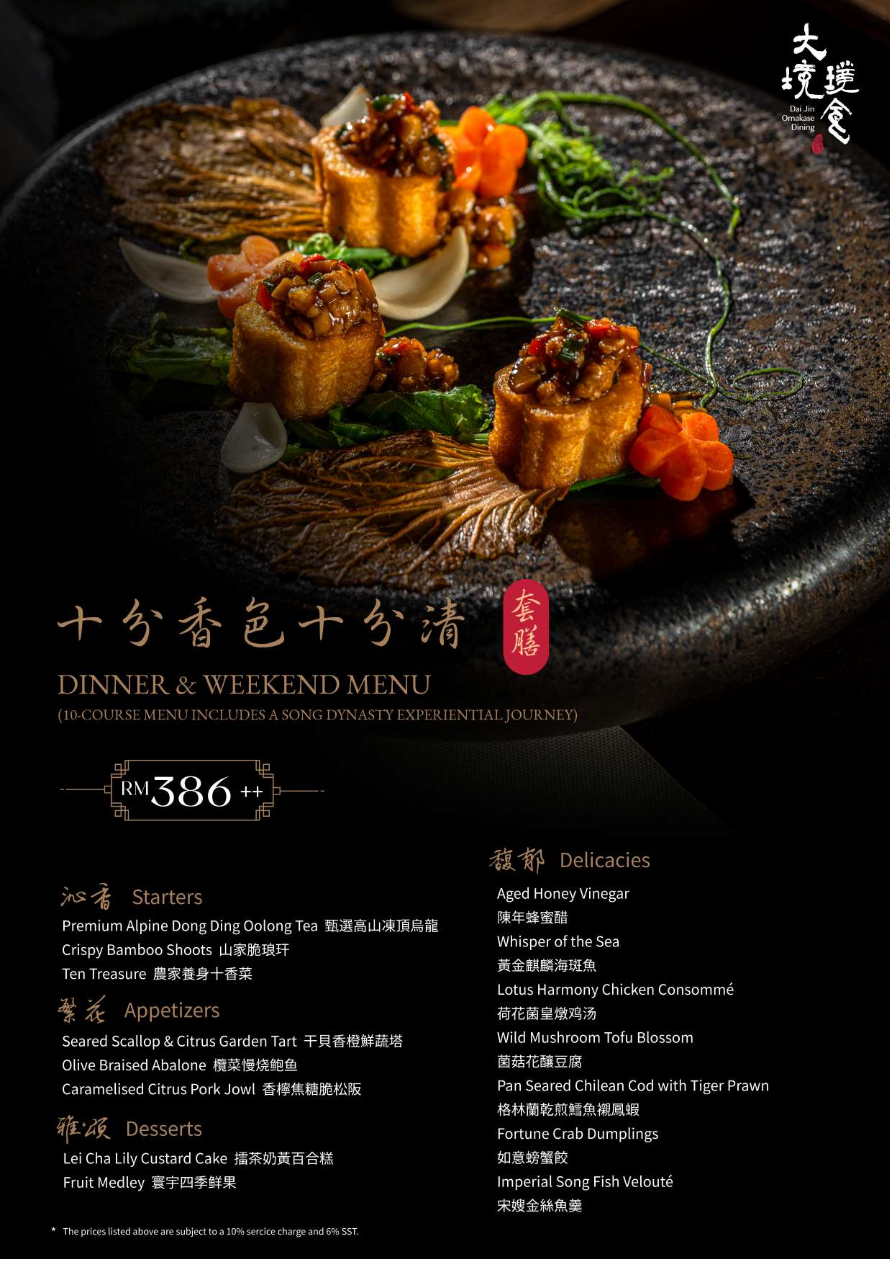
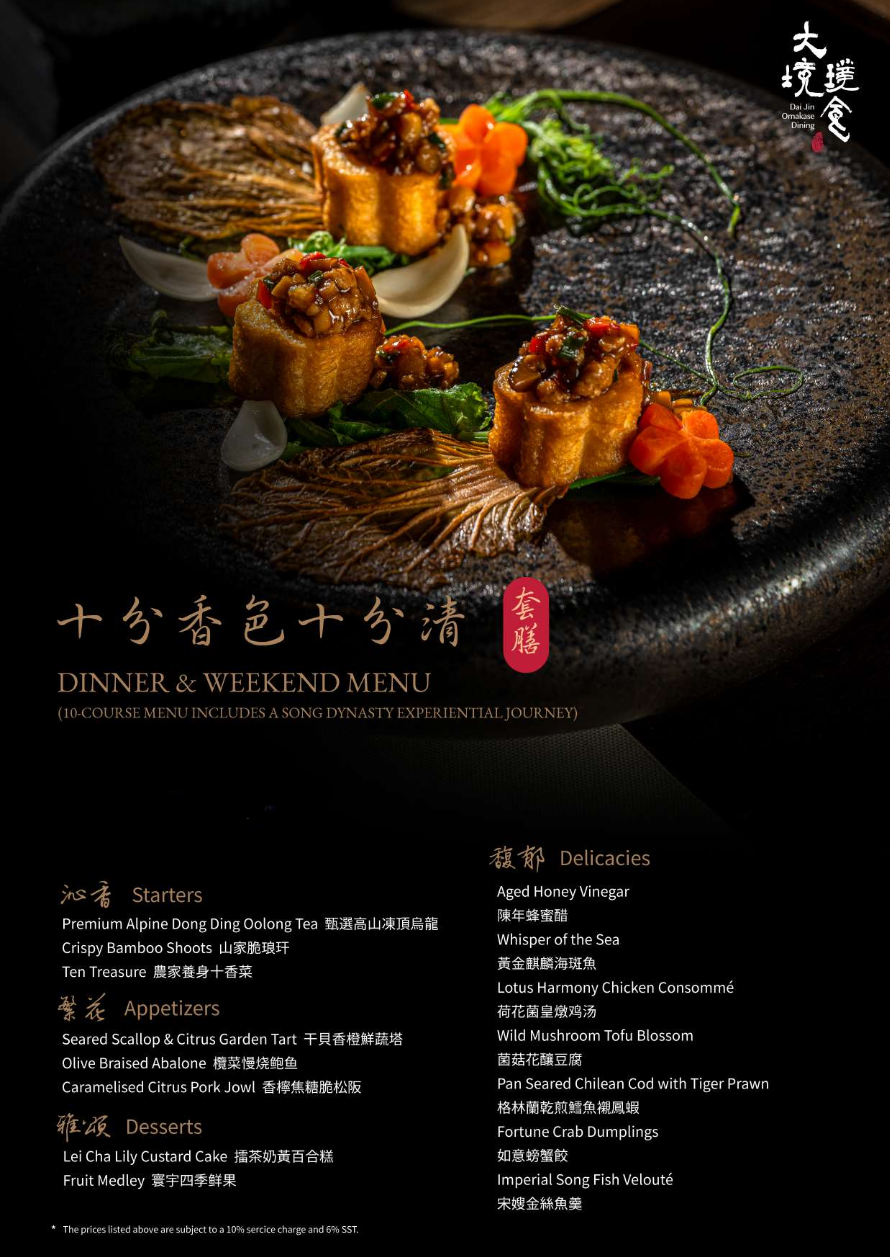
Add files via upload

diff --git a/index.html b/index.html
@@ -200,7 +200,7 @@
     <!-- REST OF CONTENT: reveals on scroll -->
 
     <div class="section reveal">
-        <h2>To celebrate your birthdays, your beloved eldest daughter, Yu Ting, invites you to an immersive omakase dining experience at:</h2>
+        <h2>To celebrate your birthdays, your beloved four children, invite you to an immersive omakase dining experience at:</h2>
     </div>
 
     <div class="section reveal">
